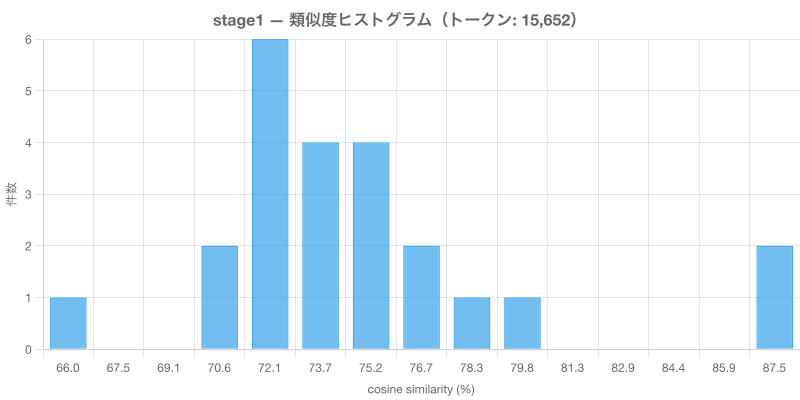
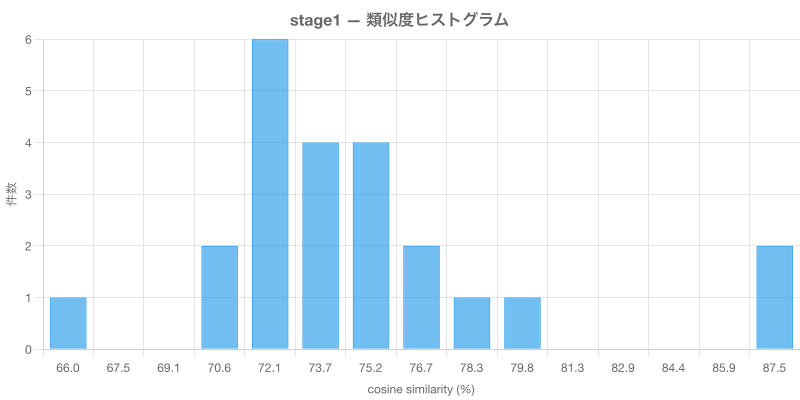
画像の再生成

Changed region(s): [[0.25, 0.03, 0.7188, 0.09]]

diff --git a/cli/careerMapRegenerateCharts.ts b/cli/careerMapRegenerateCharts.ts
@@ -1,0 +1,226 @@
+import { ChartJSNodeCanvas } from 'chartjs-node-canvas'
+import { program } from 'commander'
+import fs from 'fs'
+import path from 'path'
+
+import { STAGE_PRESETS } from '../core/domain/service/careerMap'
+
+program
+  .name('career-map:regenerate-charts')
+  .description('既存データからチャートを再生成する')
+  .argument('<dir>', 'レポートディレクトリ (例: docs/compare-report/森田大地/2026-03-27)')
+  .parse()
+
+const reportDir = program.args[0]
+
+// ── 統計ユーティリティ ──
+
+function median(arr: number[]): number {
+  const sorted = [...arr].sort((a, b) => a - b)
+  const mid = Math.floor(sorted.length / 2)
+  return sorted.length % 2 !== 0 ? sorted[mid] : (sorted[mid - 1] + sorted[mid]) / 2
+}
+
+function quartiles(arr: number[]): { q1: number; q2: number; q3: number } {
+  const sorted = [...arr].sort((a, b) => a - b)
+  const q2 = median(sorted)
+  const lower = sorted.slice(0, Math.floor(sorted.length / 2))
+  const upper = sorted.slice(Math.ceil(sorted.length / 2))
+  return { q1: median(lower), q2, q3: median(upper) }
+}
+
+function descriptiveStats(arr: number[]) {
+  const sorted = [...arr].sort((a, b) => a - b)
+  const { q1, q2, q3 } = quartiles(arr)
+  const iqr = q3 - q1
+  const mean = arr.reduce((s, v) => s + v, 0) / arr.length
+  const min = sorted[0]
+  const max = sorted[sorted.length - 1]
+  const std = Math.sqrt(arr.reduce((s, v) => s + (v - mean) ** 2, 0) / arr.length)
+  const outliers = arr.filter((v) => v < q1 - 1.5 * iqr || v > q3 + 1.5 * iqr)
+  return { min, max, mean, std, q1, q2, q3, iqr, outliers }
+}
+
+// ── データ読み込み ──
+
+type StageData = {
+  stage: string
+  similarities: number[]
+  totalTokens: number
+  embedTokens: number
+  searchTokens: number
+}
+
+const COLORS = ['#4dc9f6', '#f67019', '#f53794', '#537bc4', '#acc236']
+
+function loadStages(dir: string): StageData[] {
+  const dataDir = path.join(dir, 'data')
+  const stageNames = Object.keys(STAGE_PRESETS)
+  const stages: StageData[] = []
+
+  for (const stage of stageNames) {
+    const stageDir = path.join(dataDir, stage)
+    if (!fs.existsSync(stageDir)) continue
+
+    const results: { similarity: number }[] = JSON.parse(fs.readFileSync(path.join(stageDir, 'results.json'), 'utf-8'))
+    const embedText = fs.readFileSync(path.join(stageDir, 'embed.txt'), 'utf-8')
+    const searchText = fs.readFileSync(path.join(stageDir, 'search.txt'), 'utf-8')
+
+    // embedTokens はインデックス全体のトークン数だが、ここでは対象ユーザー分のテキスト長で代用
+    // README のトークンコスト情報が正とする
+    stages.push({
+      stage,
+      similarities: results.map((r) => r.similarity * 100),
+      embedTokens: embedText.length,
+      searchTokens: searchText.length,
+      totalTokens: embedText.length + searchText.length,
+    })
+  }
+
+  return stages
+}
+
+// ── チャート生成 ──
+
+async function generateHistograms(stages: StageData[], outDir: string): Promise<string[]> {
+  const imagesDir = path.join(outDir, 'images')
+  fs.mkdirSync(imagesDir, { recursive: true })
+
+  const files: string[] = []
+  const binCount = 15
+
+  for (const stage of stages) {
+    const chartCanvas = new ChartJSNodeCanvas({ width: 800, height: 400, backgroundColour: 'white' })
+    const values = stage.similarities
+    const min = Math.floor(Math.min(...values))
+    const max = Math.ceil(Math.max(...values))
+    const binWidth = (max - min) / binCount || 1
+    const bins = Array.from({ length: binCount }, () => 0)
+    const binLabels = Array.from({ length: binCount }, (_, i) =>
+      `${(min + i * binWidth).toFixed(1)}`,
+    )
+
+    for (const v of values) {
+      const idx = Math.min(Math.floor((v - min) / binWidth), binCount - 1)
+      bins[idx]++
+    }
+
+    const buf = await chartCanvas.renderToBuffer({
+      type: 'bar',
+      data: {
+        labels: binLabels,
+        datasets: [{
+          label: '件数',
+          data: bins,
+          backgroundColor: 'rgba(54, 162, 235, 0.7)',
+          borderColor: 'rgba(54, 162, 235, 1)',
+          borderWidth: 1,
+        }],
+      },
+      options: {
+        plugins: {
+          title: { display: true, text: `${stage.stage} — 類似度ヒストグラム`, font: { size: 16 } },
+          legend: { display: false },
+        },
+        scales: {
+          x: { title: { display: true, text: 'cosine similarity (%)' } },
+          y: { title: { display: true, text: '件数' }, beginAtZero: true },
+        },
+      },
+    })
+    const file = `images/histogram-${stage.stage}.png`
+    fs.writeFileSync(path.join(outDir, file), buf)
+    files.push(file)
+  }
+
+  return files
+}
+
+async function generateBoxplot(stages: StageData[], outDir: string): Promise<string> {
+  const imagesDir = path.join(outDir, 'images')
+  fs.mkdirSync(imagesDir, { recursive: true })
+
+  const chartCanvas = new ChartJSNodeCanvas({ width: 1000, height: 500, backgroundColour: 'white' })
+
+  const labels = stages.map((s) => s.stage)
+  const statsArr = stages.map((s) => descriptiveStats(s.similarities))
+
+  const allMin = Math.min(...statsArr.map((s) => s.min))
+  const allMax = Math.max(...statsArr.map((s) => s.max))
+  const yMin = Math.floor(allMin / 5) * 5
+  const yMax = Math.ceil(allMax / 5) * 5
+
+  const buf = await chartCanvas.renderToBuffer({
+    type: 'bar',
+    data: {
+      labels,
+      datasets: [
+        {
+          label: 'ひげ (min–max)',
+          data: statsArr.map((s) => [s.min, s.max] as [number, number]),
+          backgroundColor: 'rgba(0, 0, 0, 0)',
+          borderColor: 'rgba(100, 100, 100, 1)',
+          borderWidth: 1,
+          barPercentage: 0.08,
+          order: 3,
+        },
+        {
+          label: 'IQR (Q1–Q3)',
+          data: statsArr.map((s) => [s.q1, s.q3] as [number, number]),
+          backgroundColor: COLORS.map((c) => c + '80'),
+          borderColor: COLORS,
+          borderWidth: 2,
+          barPercentage: 0.5,
+          order: 2,
+        },
+        {
+          label: '中央値',
+          data: statsArr.map((s) => [s.q2 - 0.15, s.q2 + 0.15] as [number, number]),
+          backgroundColor: 'rgba(255, 99, 132, 1)',
+          borderColor: 'rgba(255, 99, 132, 1)',
+          borderWidth: 0,
+          barPercentage: 0.5,
+          order: 1,
+        },
+      ],
+    },
+    options: {
+      indexAxis: 'x',
+      plugins: {
+        title: { display: true, text: 'Stage 別 類似度分布（箱ひげ図）', font: { size: 18 } },
+        legend: { display: true, position: 'top' },
+      },
+      scales: {
+        y: {
+          min: yMin,
+          max: yMax,
+          title: { display: true, text: 'cosine similarity (%)' },
+        },
+      },
+    },
+  })
+
+  const file = 'images/boxplot.png'
+  fs.writeFileSync(path.join(outDir, file), buf)
+  return file
+}
+
+// ── メイン ──
+
+async function main() {
+  if (!fs.existsSync(path.join(reportDir, 'data'))) {
+    console.error(`データディレクトリが見つかりません: ${reportDir}/data`)
+    process.exit(1)
+  }
+
+  const stages = loadStages(reportDir)
+  console.log(`${stages.length} ステージのデータを読み込みました`)
+
+  console.log('チャート生成中...')
+  await generateHistograms(stages, reportDir)
+  await generateBoxplot(stages, reportDir)
+
+  console.log('完了')
+}
+
+main()

diff --git a/cli/careerMapCompareReport.ts b/cli/careerMapCompareReport.ts
@@ -132,12 +132,27 @@ async function generateBoxplot(stages: StageData[], outDir: string): Promise<str
   const labels = stages.map((s) => `${s.stage}\n(${s.totalTokens.toLocaleString()} tokens)`)
   const statsArr = stages.map((s) => descriptiveStats(s.similarities))
 
-  // floating bar で IQR (Q1–Q3) を表現し、中央値を赤い線で描画
+  // Y軸の範囲をデータに合わせる
+  const allMin = Math.min(...statsArr.map((s) => s.min))
+  const allMax = Math.max(...statsArr.map((s) => s.max))
+  const yMin = Math.floor(allMin / 5) * 5 // 5刻みで切り下げ
+  const yMax = Math.ceil(allMax / 5) * 5   // 5刻みで切り上げ
+
+  // whisker: min–Q1 と Q3–max を細いバーで表現
   const buf = await chartCanvas.renderToBuffer({
     type: 'bar',
     data: {
       labels,
       datasets: [
+        {
+          label: 'ひげ (min–max)',
+          data: statsArr.map((s) => [s.min, s.max] as [number, number]),
+          backgroundColor: 'rgba(0, 0, 0, 0)',
+          borderColor: 'rgba(100, 100, 100, 1)',
+          borderWidth: 1,
+          barPercentage: 0.08,
+          order: 3,
+        },
         {
           label: 'IQR (Q1–Q3)',
           data: statsArr.map((s) => [s.q1, s.q3] as [number, number]),
@@ -145,6 +160,7 @@ async function generateBoxplot(stages: StageData[], outDir: string): Promise<str
           borderColor: COLORS,
           borderWidth: 2,
           barPercentage: 0.5,
+          order: 2,
         },
         {
           label: '中央値',
@@ -153,6 +169,7 @@ async function generateBoxplot(stages: StageData[], outDir: string): Promise<str
           borderColor: 'rgba(255, 99, 132, 1)',
           borderWidth: 0,
           barPercentage: 0.5,
+          order: 1,
         },
       ],
     },
@@ -164,6 +181,8 @@ async function generateBoxplot(stages: StageData[], outDir: string): Promise<str
       },
       scales: {
         y: {
+          min: yMin,
+          max: yMax,
           title: { display: true, text: 'cosine similarity (%)' },
         },
       },
